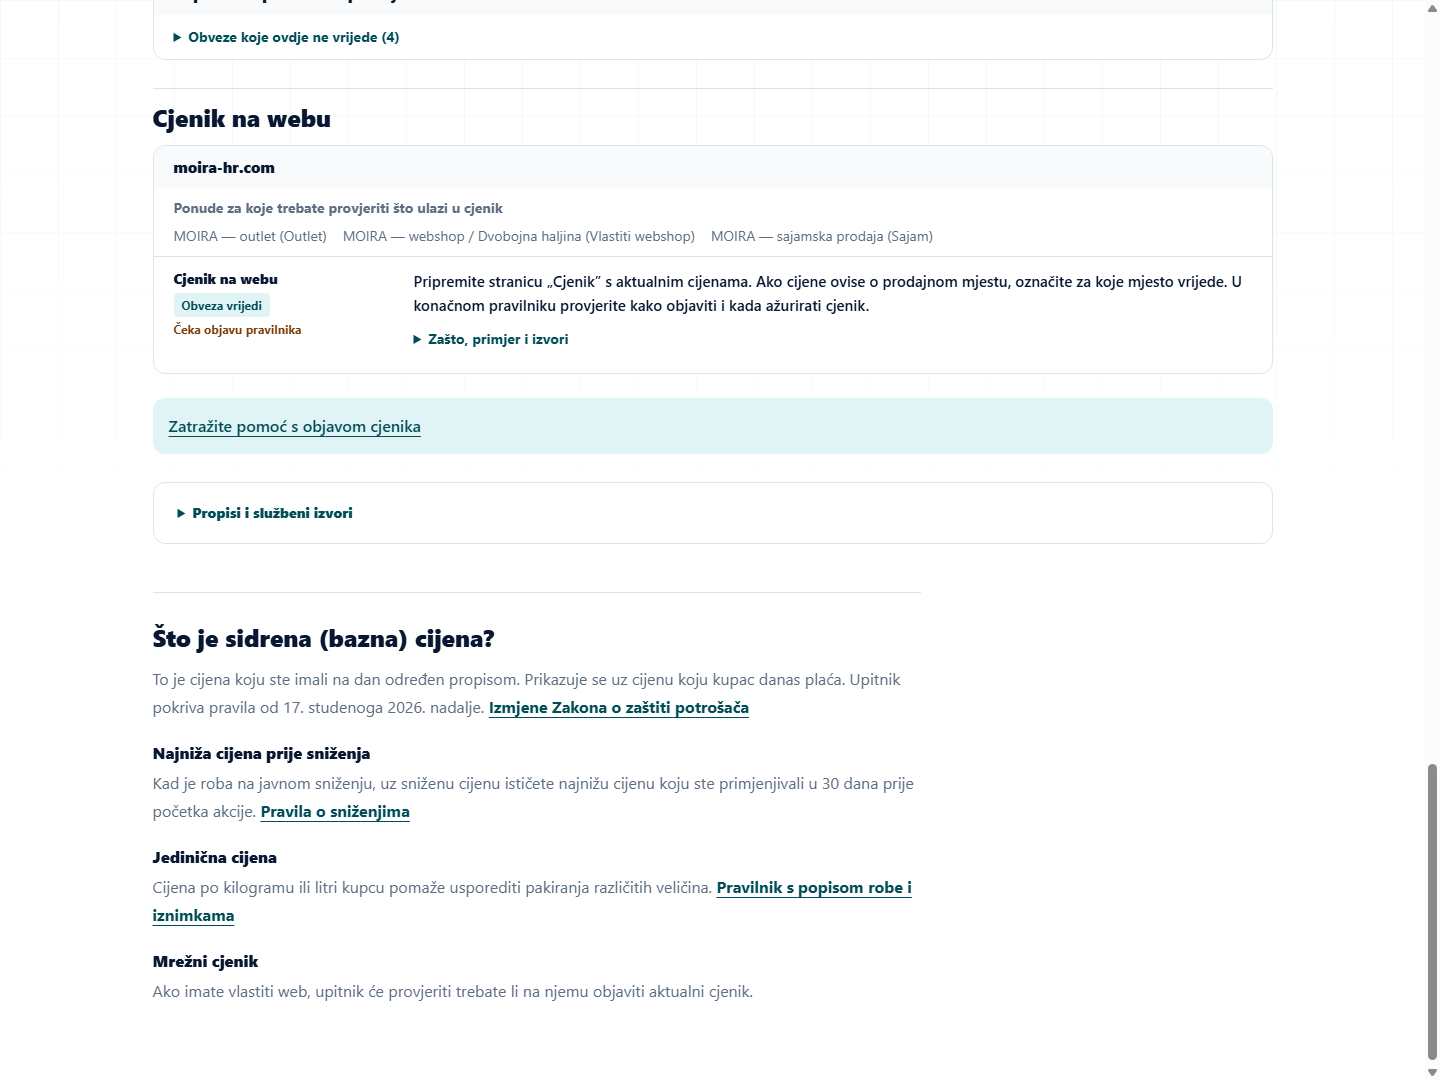
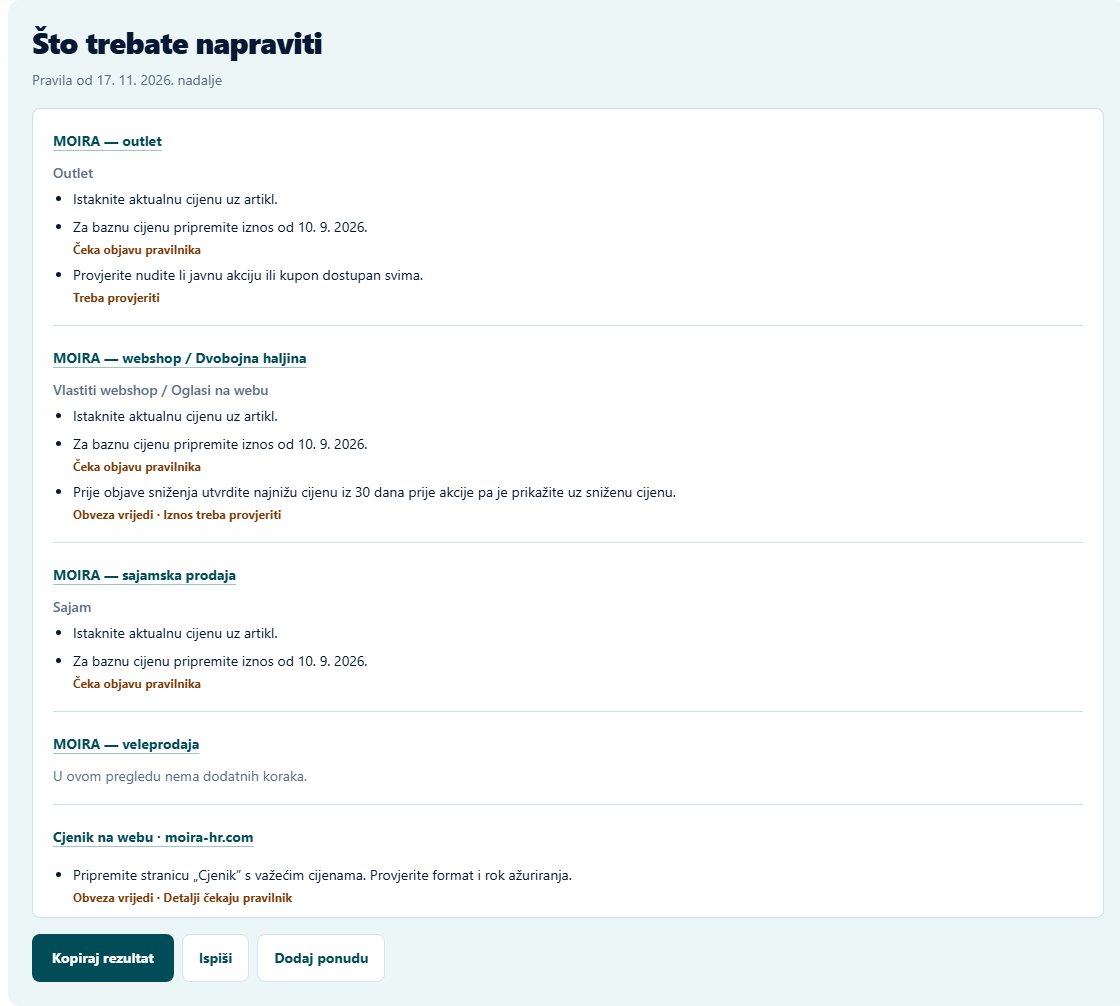
Show a short action plan above price results

diff --git a/lib/sidrene-cijene.ts b/lib/sidrene-cijene.ts
@@ -6,13 +6,13 @@ type Obligation = keyof typeof obligations;
 type Status = keyof typeof statusLabels;
 export type Guidance = {
   status: Status; reason: string; action: string; refs: SourceId[];
-  pending?: boolean; amountNeedsCheck?: boolean; example?: string; question?: QuestionId;
+  pending?: boolean; amountNeedsCheck?: boolean; example?: string; question?: QuestionId; shortAction?: string;
 };
 export const amountCheckLabel = "Iznos treba provjeriti";
 type Channel = { type: "sale" | "ad"; key: string; name: string };
 export type ResultRow = Guidance & { obligation: Obligation };
-type Group = { title: string; items: ResultRow[]; website?: WebsiteType };
-const result = (status: Status, reason: string, action: string, refs: SourceId[], extra?: Pick<Guidance, "pending" | "amountNeedsCheck" | "example" | "question">): Guidance => ({ status, reason, action, refs, ...extra });
+type Group = { title: string; items: ResultRow[]; website?: WebsiteType; placement?: { channel: Channel; scope: string } };
+const result = (status: Status, reason: string, action: string, refs: SourceId[], extra?: Pick<Guidance, "pending" | "amountNeedsCheck" | "example" | "question" | "shortAction">): Guidance => ({ status, reason, action, refs, ...extra });
 const isUnknown = (a: Answers, k: QuestionId) => !selected(a, k).length || selected(a, k).every(v => v === "unknown" || v === "other");
 const has = (a: Answers, k: QuestionId, ...values: string[]) => selected(a, k).some(v => values.includes(v));
 const withoutUncertain = (a: Answers, k: QuestionId) => selected(a, k).filter(v => !["unknown", "other"].includes(v));
@@ -25,7 +25,7 @@ const inPremises = ["shop", "outlet"];
 const blank = "______ €";
 const evidence = "Potražite iznos u starom cjeniku, blagajni, webshopu ili računima za to prodajno mjesto.";
 const scopeAction = "Dodajte zasebnu ponudu ako se razlikuju kupci, cijene, prodavatelji ili pravila.";
-const toCheck = (question: QuestionId, action: string, refs: SourceId[]) => result("check", questions[question][0], action, refs, { question });
+const toCheck = (question: QuestionId, action: string, refs: SourceId[], shortAction?: string) => result("check", questions[question][0], action, refs, { question, shortAction });
 const general = (obligation: Obligation, a: Answers, territory: string): Guidance | undefined => {
   if (isUnknown(a, "buyers") || (!selects(a, "buyers", "consumer") && has(a, "buyers", "unknown", "other"))) return toCheck("buyers", "Provjerite kupuje li itko kao fizička osoba za osobnu uporabu.", ["consumer"]);
   if (!selects(a, "buyers", "consumer")) return result("outside", "Ovu ponudu imaju samo poslovni kupci, ustanove ili otkupljivači.", "Provjerite ovu ponudu ponovno ako je počnete nuditi građanima za osobnu kupnju.", ["consumer"]);
@@ -57,10 +57,16 @@ function nextBase(a: Answers, kind: string, ch: Channel, price: string): Guidanc
   if (kind === "goods" && selects(a, "regulation", "regulated")) issues.push("izuzeće za reguliranu cijenu robe");
   const split = price === "quote" ? " Odvojite individualni izračun od fiksnih stavki poput izlaska, satnice i materijala." : "";
   const history = isUnknown(a, "history") || !selects(a, "proof", "yes") ? evidence : "Sačuvajte zapis o cijeni za ovo prodajno mjesto.";
-  const prepare = selects(a, "history", "new", "changed")
+  const firstPrice = selects(a, "history", "new", "changed");
+  const prepare = firstPrice
     ? "Zapišite prvu cijenu i datum kada ste ovu ponudu prvi put uvrstili u prodaju."
     : reference ? `Pronađite cijenu koja je vrijedila ${reference}` : "Pronađite raniju cijenu za ovu ponudu.";
-  return result("check", `Zakon uvodi baznu cijenu. Konačni pravilnik određuje datum i način prikaza.${issues.length ? ` Još treba provjeriti ${issues.join(", ")}.` : ""}`, `${prepare} ${history}${split} U konačnom pravilniku provjerite koji iznos trebate prikazati.`, refs, { pending: true });
+  return result("check", `Zakon uvodi baznu cijenu. Konačni pravilnik određuje datum i način prikaza.${issues.length ? ` Još treba provjeriti ${issues.join(", ")}.` : ""}`, `${prepare} ${history}${split} U konačnom pravilniku provjerite koji iznos trebate prikazati.`, refs, {
+    pending: true,
+    shortAction: price === "quote" || price === "dynamic"
+      ? "Provjerite traži li pravilnik baznu cijenu za ovaj način naplate."
+      : reference && !firstPrice ? `Za baznu cijenu pripremite iznos od ${reference}` : prepare,
+  });
 }
 
 function unit(a: Answers, kind: string, ch: Channel): Guidance {
@@ -73,7 +79,9 @@ function unit(a: Answers, kind: string, ch: Channel): Guidance {
   if (selects(a, "goods", "loose")) return result("applies", "Rasuta roba ima izravnu obvezu isticanja jedinične cijene (čl. 7. st. 4. ZZP-a).", ch.type === "ad" ? "Navedite jasnu cijenu po odgovarajućoj jedinici uz oglašenu robu." : "Na prodajnom mjestu jasno navedite cijenu po odgovarajućoj jedinici.", refs, { example: `Rasuta roba\nCijena za 1 kg: ${blank}` });
   if (!selects(a, "goods", "packed", "pieces", "standard")) return toCheck("goods", "Utvrdite prodaje li se roba rasuto, pakirano ili na komad. Status nove ili rabljene robe sam po sebi nije dovoljan.", refs);
   if (either(a, "unit", "yes", "no") || isUnknown(a, "unit")) return toCheck("unit", "Provjerite popis iz čl. 8. st. 1. za konkretan artikl. Razdvojite skupine ako je potrebno.", refs);
-  if (selects(a, "unit", "no")) return result("outside", "Ova roba nije rasuta i nije na popisu robe za koju treba prikazati cijenu po jedinici.", "Istaknite cijenu koju kupac plaća za artikl.", refs);
+  if (selects(a, "unit", "no")) return result("outside", "Ova roba nije rasuta i nije na popisu robe za koju treba prikazati cijenu po jedinici.", "Istaknite cijenu koju kupac plaća za artikl.", refs, {
+    shortAction: "Istaknite aktualnu cijenu uz artikl.",
+  });
   const exceptions = withoutUncertain(a, "unitException").filter(v => v !== "none");
   if ((exceptions.length && selects(a, "unitException", "none")) || isUnknown(a, "unitException")) return toCheck("unitException", "Provjerite neto količinu, način pakiranja i vrstu prodaje za isti artikl.", refs);
   if (exceptions.length) return result("outside", `Označeno izuzeće: ${exceptions.map(v => label("unitException", v)).join("; ")}.`, "To izuzeće primijenite samo na odgovarajuću robu. Zasebno provjerite druge cijene.", refs);
@@ -86,7 +94,7 @@ function discount(a: Answers, kind: string, ch: Channel): Guidance {
   if (ambiguousKind(kind)) return toCheck("kinds", "Odvojite robu od usluge kako biste mogli utvrditi pravila za prikaz sniženja.", refs);
   if (kind !== "goods" && (ch.type === "ad" || ["door", "webshop", "booking", "market", "social", "messages"].includes(ch.key))) return result("outside", "Čl. 19. st. 7.–8. izuzima oglašavanje usluge i ugovore o usluzi na daljinu ili izvan poslovnih prostorija.", "Jasno navedite cijenu i uvjete. Posebno provjerite eventualnu akciju iste usluge unutar poslovnih prostorija.", refs);
   const promotion = selects(a, "discount", "public", "coupon", "expiry");
-  if ((promotion && selects(a, "discount", "none")) || isUnknown(a, "discount")) return toCheck("discount", "Provjerite nudite li ovdje javnu akciju ili kod dostupan svima. Ako akcija vrijedi samo na jednom mjestu, unesite je kao zasebnu ponudu.", [...refs, "euDiscount"]);
+  if ((promotion && selects(a, "discount", "none")) || isUnknown(a, "discount")) return toCheck("discount", "Provjerite nudite li ovdje javnu akciju ili kod dostupan svima. Ako akcija vrijedi samo na jednom mjestu, unesite je kao zasebnu ponudu.", [...refs, "euDiscount"], "Provjerite nudite li javnu akciju ili kupon dostupan svima.");
   if (!promotion && selects(a, "discount", "personal") && !has(a, "discount", "other", "unknown")) return result("outside", "Označen je stvarno individualni popust, bez javne najave sniženja.", "Opće dostupan kod ili široko oglašen popust procijenite kao javno sniženje.", [...refs, "euDiscount"]);
   if (!promotion && selects(a, "discount", "none") && !has(a, "discount", "other", "unknown")) return result("outside", "Za ovaj kanal nije označeno sniženje.", "Sačuvajte povijest cijena za eventualnu buduću akciju.", refs);
   if (!promotion) return toCheck("discount", "Pregledajte oglas i uvjete popusta za ovaj kanal.", refs);
@@ -101,8 +109,13 @@ function discount(a: Answers, kind: string, ch: Channel): Guidance {
   const qualified = "Kod javnog sniženja i koda dostupnog svima gledaju se ranije cijene iste ponude na mjestu gdje vrijedi popust.";
   const defect = kind === "goods" && selects(a, "goods", "defect") ? " Jasno označite grešku i opišite kupcu u čemu se sastoji (čl. 23.)." : "";
   if (selects(a, "discountProof", "first")) return result("check", "Za prvu prodaju nije utvrđena prethodna cijena koja bi potkrijepila oglašeno sniženje.", `Prikažite početnu cijenu bez oznake sniženja dok ne utvrdite valjanu prethodnu cijenu.${defect}`, [...refs, "euDiscount"], { question: "discountProof", example });
-  if (!selects(a, "discountProof", "full") || has(a, "discountProof", "partial", "unknown")) return result("applies", `${qualified} ${evidence}`, `Pronađite najnižu cijenu po kojoj ste nudili artikl u 30 dana prije akcije. Prikažite je uz sniženu cijenu. Objavite sniženje tek kad potvrdite oba iznosa.${defect}`, [...refs, "euDiscount"], { amountNeedsCheck: true, question: "discountProof", example });
-  return result("applies", qualified, `${ads} prikažite sniženu cijenu i najnižu cijenu u 30 dana prije akcije. Uračunajte ranije akcijske cijene. Postotak popusta računajte od te najniže cijene.${defect}`, [...refs, "euDiscount"], { example });
+  if (!selects(a, "discountProof", "full") || has(a, "discountProof", "partial", "unknown")) return result("applies", `${qualified} ${evidence}`, `Pronađite najnižu cijenu po kojoj ste nudili artikl u 30 dana prije akcije. Prikažite je uz sniženu cijenu. Objavite sniženje tek kad potvrdite oba iznosa.${defect}`, [...refs, "euDiscount"], {
+    amountNeedsCheck: true, question: "discountProof", example,
+    shortAction: "Prije objave sniženja utvrdite najnižu cijenu iz 30 dana prije akcije pa je prikažite uz sniženu cijenu.",
+  });
+  return result("applies", qualified, `${ads} prikažite sniženu cijenu i najnižu cijenu u 30 dana prije akcije. Uračunajte ranije akcijske cijene. Postotak popusta računajte od te najniže cijene.${defect}`, [...refs, "euDiscount"], {
+    example, shortAction: "Prikažite sniženu cijenu i najnižu cijenu u 30 dana prije akcije.",
+  });
 }
 
 function priceList(a: Answers, kind: string, site: string): Guidance {
@@ -115,7 +128,10 @@ function priceList(a: Answers, kind: string, site: string): Guidance {
   if (isUnknown(a, "regulation")) return toCheck("regulation", "Provjerite uređuje li sektorski propis ovaj iznos i po kojem članku.", ["article7"]);
   if (ambiguousKind(kind) || selects(a, "regulation", "regulated")) return result("check", "Čl. 7. st. 9. propisuje objavu cjenika na vlastitom webu. Za ovu vrstu ili regulaciju ponude treba potvrditi točan obuhvat.", "Pripremite odvojene popise proizvoda, tržišnih i reguliranih usluga. U konačnom pravilniku provjerite obuhvat svake stavke i način objave.", refs, { pending: true });
   const quote = selects(a, "pricing", "quote") ? " Odvojite ponude po mjeri od fiksnih stavki poput satnice, izlaska i doplata." : "";
-  return result("applies", "Zakon traži važeći cjenik na vašem webu, čak i kad na njemu nemate košaricu. U konačnom pravilniku provjerite format datoteke, podatke koje treba navesti i koliko dugo treba čuvati stare cjenike.", `Pripremite stranicu „Cjenik” s aktualnim cijenama. Ako cijene ovise o prodajnom mjestu, označite za koje mjesto vrijede.${quote} U konačnom pravilniku provjerite kako objaviti i kada ažurirati cjenik.`, refs, { pending: true, example: "Na web dodajte poveznicu „Cjenik”. Na stranici označite koji su iznosi za poslovnicu, a koji za webshop." });
+  return result("applies", "Zakon traži važeći cjenik na vašem webu, čak i kad na njemu nemate košaricu. U konačnom pravilniku provjerite format datoteke, podatke koje treba navesti i koliko dugo treba čuvati stare cjenike.", `Pripremite stranicu „Cjenik” s aktualnim cijenama. Ako cijene ovise o prodajnom mjestu, označite za koje mjesto vrijede.${quote} U konačnom pravilniku provjerite kako objaviti i kada ažurirati cjenik.`, refs, {
+    pending: true, example: "Na web dodajte poveznicu „Cjenik”. Na stranici označite koji su iznosi za poslovnicu, a koji za webshop.",
+    shortAction: quote ? undefined : "Pripremite stranicu „Cjenik” s važećim cijenama. Provjerite format i rok ažuriranja.",
+  });
 }
 
 function channels(a: Answers): Channel[] {
@@ -150,7 +166,7 @@ export function assessOffer(offer: Offer) {
         return { obligation: "base" as const, ...base, reason: priced ? `${label("pricing", price)}: ${base.reason}` : base.reason };
       }).filter((row, i, all) => all.findIndex(other => other.reason === row.reason) === i);
       const section = ch.type === "sale" ? "Prodaja" : "Oglašavanje";
-      groups.push({ title: `${prefix} · ${section}: ${ch.name}`, items: [
+      groups.push({ title: `${prefix} · ${section}: ${ch.name}`, placement: { channel: ch, scope: prefix }, items: [
         ...items,
         { obligation: "unit", ...(general("unit", a, area) ?? askChannel ?? unit(a, part.kind, ch)) },
         { obligation: "discount", ...(general("discount", a, area) ?? askChannel ?? discount(a, part.kind, ch)) },
@@ -183,6 +199,38 @@ type WebsiteScope = { offerId: number; detail: string; row: ResultRow };
 
 function websiteDecisionKey({ status, action, pending, question, reason }: ResultRow) {
   return JSON.stringify([status, action, pending, question, status === "check" ? reason : undefined]);
+}
+
+function quickSteps(rows: ResultRow[]) {
+  const active = rows.filter(row => row.status !== "outside" || row.shortAction);
+  active.sort((a, b) => Number(b.status === "outside") - Number(a.status === "outside"));
+  const steps = new Map<string, { action: string; note?: string }>();
+  for (const row of active) {
+    const action = row.shortAction ?? row.action;
+    const note = row.amountNeedsCheck ? `${statusLabels.applies} · ${amountCheckLabel}`
+      : row.pending ? row.status === "applies" ? "Obveza vrijedi · Detalji čekaju pravilnik" : "Čeka objavu pravilnika"
+      : row.status === "check" ? statusLabels.check : undefined;
+    steps.set(JSON.stringify([action, note]), { action, note });
+  }
+  return [...steps.values()];
+}
+
+function offerQuickSteps(groups: Group[]) {
+  const combined = new Map<string, { titles: string[]; steps: ReturnType<typeof quickSteps> }>();
+  const scopes = new Set(groups.flatMap(group => group.placement ? [group.placement.scope] : []));
+  for (const { title, items, placement } of groups) {
+    const steps = quickSteps(items);
+    if (!steps.length) continue;
+    const key = JSON.stringify([placement?.scope ?? title, steps]);
+    const channel = placement?.channel;
+    const name = channel && scopes.size === 1 && !placement.scope.includes(" · ")
+      ? channel.type === "sale" ? channel.name : channel.key === "web" ? "Oglasi na webu" : `Oglasi (${channel.name})`
+      : title;
+    const entry = combined.get(key);
+    if (entry) entry.titles.push(name);
+    else combined.set(key, { titles: [name], steps });
+  }
+  return [...combined.values()].map(({ titles, steps }) => ({ title: titles.join(" / "), steps }));
 }
 
 export function assessResults(offers: readonly Offer[]) {
@@ -233,7 +281,19 @@ export function assessResults(offers: readonly Offer[]) {
     }
     return { key, title, row: primary.row, offerId: primary.offerId, details: [...distinct.values()], scopes: scopeNames };
   });
-  return { offerResults, websites, showCta: websites.some(({ row }) => row.status === "applies") };
+  const quickPlan = {
+    offers: offerResults.map(({ offer, name, groups }) => ({ id: offer.id, name, groups: offerQuickSteps(groups) })),
+    websites: websites.map(({ key, title, row, details }) => ({
+      key, title,
+      steps: quickSteps([row]),
+      details: details.map(detail => ({
+        key: detail.key,
+        title: detail.scopes.map(scope => scope.detail).join(", "),
+        steps: quickSteps([detail.row]),
+      })),
+    })),
+  };
+  return { offerResults, websites, quickPlan, showCta: websites.some(({ row }) => row.status === "applies") };
 }
 
 function formatGuidance(row: ResultRow) {

diff --git a/app/alati/sidrene-cijene/upitnik.tsx b/app/alati/sidrene-cijene/upitnik.tsx
@@ -256,18 +256,7 @@ export function PriceQuestionnaire() {
             <p className="mt-2 text-sm leading-6 text-muted print:text-black">{ASSESSMENT_PERIOD}</p>
           </div>
         </div>
-        <ul aria-label="Pregled ponuda" className="mt-4 divide-y divide-teal/20 border-y border-teal/20 print:hidden">
-          {results.offerResults.map(({ offer: item, name, groups }) => {
-            const rows = groups.flatMap(group => group.items);
-            const needsCheck = rows.some(row => row.status === "check" || row.pending || row.amountNeedsCheck);
-            return <li key={item.id} className="flex flex-wrap items-center justify-between gap-x-3 py-1.5">
-              <a href={`#offer-result-${item.id}`} className={`${link} min-w-0 [overflow-wrap:anywhere]`}>{name}</a>
-              {needsCheck && <span className="text-sm font-semibold text-teal-dark">Još za provjeriti</span>}
-              {rows.some(row => row.status === "applies") && <span className="text-sm font-semibold text-teal-dark">Imate obveze</span>}
-            </li>;
-          })}
-          {results.websites.length > 0 && <li><a href="#website-results" className={link}>Cjenik na webu</a></li>}
-        </ul>
+        <QuickPlan plan={results.quickPlan} />
         <div className="mt-4 flex flex-wrap gap-2 print:hidden">
           <button type="button" className={primary} onClick={copy}>Kopiraj rezultat</button>
           <button type="button" className={secondary} onClick={printResults}>Ispiši</button>
@@ -303,7 +292,7 @@ export function PriceQuestionnaire() {
       </article>)}
       {results.websites.length > 0 && <section id="website-results" aria-labelledby="website-title" className="mt-7 min-w-0 border-t border-line pt-3">
         <h3 id="website-title" className="text-xl font-black sm:text-2xl print:text-base">Cjenik na webu</h3>
-        {results.websites.map(site => <div key={site.key} data-website-result className="mt-3 min-w-0 rounded-xl border border-line bg-white print:border-0">
+        {results.websites.map((site, index) => <div key={site.key} id={`website-result-${index}`} data-website-result className="mt-3 min-w-0 scroll-mt-4 rounded-xl border border-line bg-white print:border-0">
           <h4 className="rounded-t-xl bg-slate-50 px-3 py-2.5 text-[.9375rem] font-extrabold [overflow-wrap:anywhere] sm:px-5 print:bg-white print:px-0">{site.title}</h4>
           <div className="border-b border-line px-3 py-2 text-sm leading-6 text-muted sm:px-5 print:px-0 print:text-black">
             <p><strong>Ponude za koje trebate provjeriti što ulazi u cjenik</strong></p>
@@ -331,6 +320,39 @@ export function PriceQuestionnaire() {
       </li>)}</ul>
     </details>
   </>;
+}
+
+type ResultPlan = ReturnType<typeof assessResults>["quickPlan"];
+type PlanSteps = ResultPlan["websites"][number]["steps"];
+
+function QuickPlan({ plan }: { plan: ResultPlan }) {
+  return <ul aria-label="Kratki popis koraka" className="mt-4 divide-y divide-teal/20 rounded-lg border border-teal/20 bg-white px-3 sm:px-5 print:px-0">
+    {plan.offers.map(({ id, name, groups }) => <li key={id} className="py-2.5 [overflow-wrap:anywhere]">
+      <h3 className="text-base font-extrabold"><a href={`#offer-result-${id}`} className={link}>{name}</a></h3>
+      {groups.map(({ title, steps }) => <div key={title} className="mb-2">
+        {title !== name && <h4 className="text-sm font-semibold text-muted">{title}</h4>}
+        <QuickSteps steps={steps} />
+      </div>)}
+      {!groups.length && <p className="mb-2 text-sm text-muted">U ovom pregledu nema dodatnih koraka.</p>}
+    </li>)}
+    {plan.websites.map(({ key, title, steps, details }, index) => <li key={key} className="py-2.5 [overflow-wrap:anywhere]">
+      <h3 className="text-base font-extrabold"><a href={`#website-result-${index}`} className={link}>Cjenik na webu · {title}</a></h3>
+      <QuickSteps steps={steps} />
+      {details.map(({ key, title, steps }) => <div key={key} className="mt-2">
+        <h4 className="text-sm font-semibold text-muted">{title}</h4>
+        <QuickSteps steps={steps} />
+      </div>)}
+    </li>)}
+  </ul>;
+}
+
+function QuickSteps({ steps }: { steps: PlanSteps }) {
+  return <ul className="mt-1 list-disc space-y-1 pl-5 text-sm leading-6">
+    {steps.map(({ action, note }) => <li key={JSON.stringify([action, note])}>
+      {action}
+      {note && <span className="block text-xs font-bold leading-5 text-[#7b3c09]">{note}</span>}
+    </li>)}
+  </ul>;
 }
 
 function GuidanceRow({ row, edit }: { row: ResultRow; edit?: () => void }) {

diff --git a/lib/sidrene-cijene.test.ts b/lib/sidrene-cijene.test.ts
@@ -177,6 +177,19 @@ test("MOIRA ima jedan mrežni cjenik za tri potrošačka kanala, a veleprodaja o
   assert.deepEqual(site.scopes, ["MOIRA outlet (Outlet)", "MOIRA webshop (Vlastiti webshop)", "MOIRA sajamska prodaja (Sajam)"]);
   assert.ok(assessment.offerResults.slice(0, 3).every(({ groups }) => groups.every(group => group.items.every(row => row.obligation !== "list"))));
   assert.ok(assessment.offerResults[3].groups[0].items.every(row => row.status === "outside"));
+  const [outlet, webshop, fair, wholesale] = assessment.quickPlan.offers;
+  assert.equal(outlet.groups[0].title, "Outlet");
+  assert.match(outlet.groups[0].steps[0].action, /aktualnu cijenu/);
+  assert.ok(outlet.groups[0].steps.some(step => step.note === "Čeka objavu pravilnika" && step.action.includes("10. 9. 2026.")));
+  assert.ok(outlet.groups[0].steps.some(step => step.note === "Treba provjeriti" && step.action.includes("javnu akciju")));
+  assert.equal(webshop.groups.length, 1);
+  assert.equal(webshop.groups[0].title, "Vlastiti webshop / Oglasi na webu");
+  assert.ok(webshop.groups[0].steps.some(step => step.note === "Obveza vrijedi · Iznos treba provjeriti" && step.action.includes("30 dana")));
+  assert.equal(fair.groups[0].title, "Sajam");
+  assert.equal(fair.groups[0].steps.length, 2);
+  assert.deepEqual(wholesale.groups, []);
+  assert.deepEqual(assessment.quickPlan.websites.map(website => website.title), ["moira-hr.com"]);
+  assert.match(assessment.quickPlan.websites[0].steps[0].action, /stranicu „Cjenik”/);
   const copied = formatResults(offers);
   assert.equal((copied.match(/^Cjenik na webu — Obveza vrijedi/gm) ?? []).length, 1);
   assert.match(copied, /Najniža cijena prije sniženja — Obveza vrijedi · Iznos treba provjeriti/);
@@ -202,9 +215,12 @@ test("zajednički cjenik zadržava iznimke uz potvrđenu obvezu", () => {
     { id: 1, name: "Robna ponuda", answers: { ...good, website: ["shop"] }, websiteDomains: { shop: "trgovina.hr" } },
     { id: 2, name: "Regulirana usluga", answers: { ...good, ...service, website: ["info"], regulation: ["regulated"] }, websiteDomains: { info: "www.trgovina.hr" } },
   ];
-  const { websites } = assessResults(offers);
+  const { websites, quickPlan } = assessResults(offers);
   assert.equal(websites.length, 1);
   assert.equal(websites[0].row.status, "applies");
   assert.equal(websites[0].details[0].row.status, "check");
   assert.equal(websites[0].details[0].scopes[0].offerId, 2);
+  assert.equal(quickPlan.websites.length, 1);
+  assert.match(quickPlan.websites[0].details[0].title, /Regulirana usluga/);
+  assert.equal(quickPlan.websites[0].details[0].steps[0].note, "Čeka objavu pravilnika");
 });
